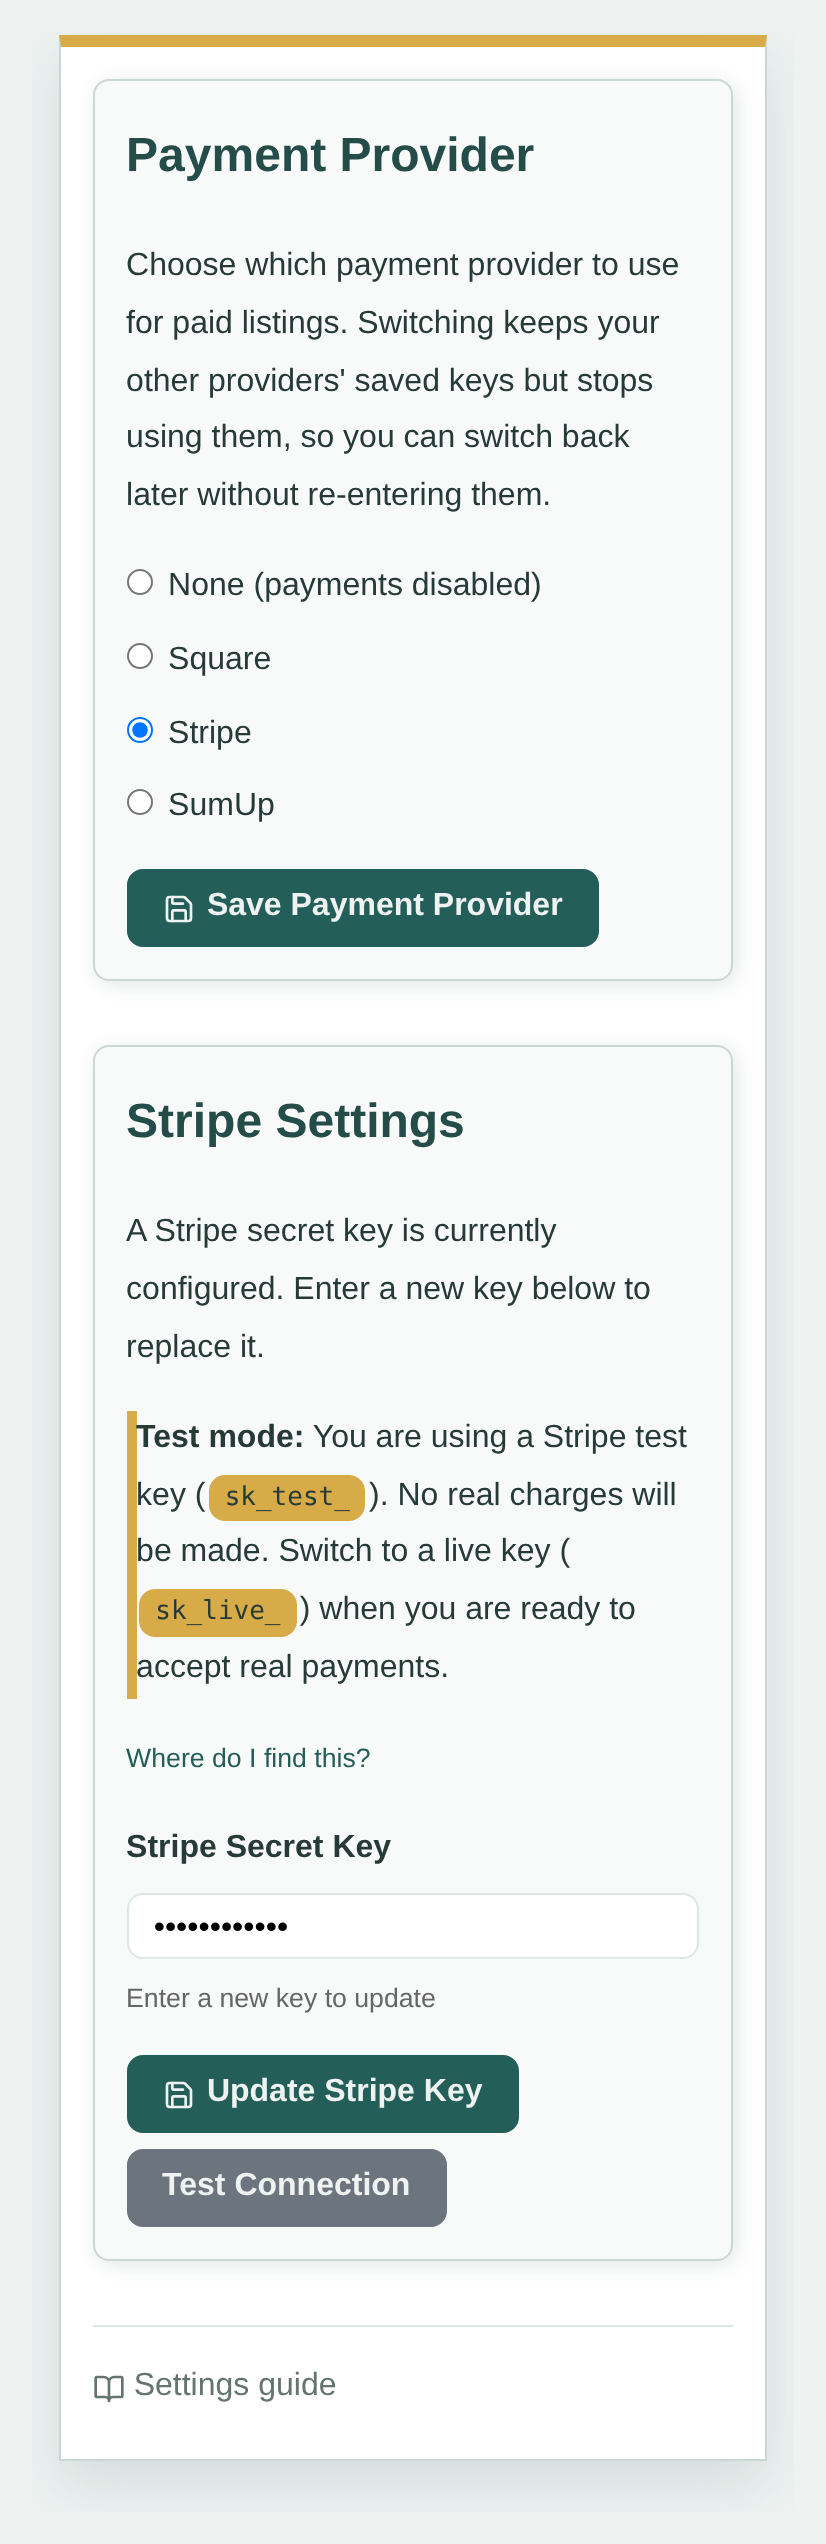
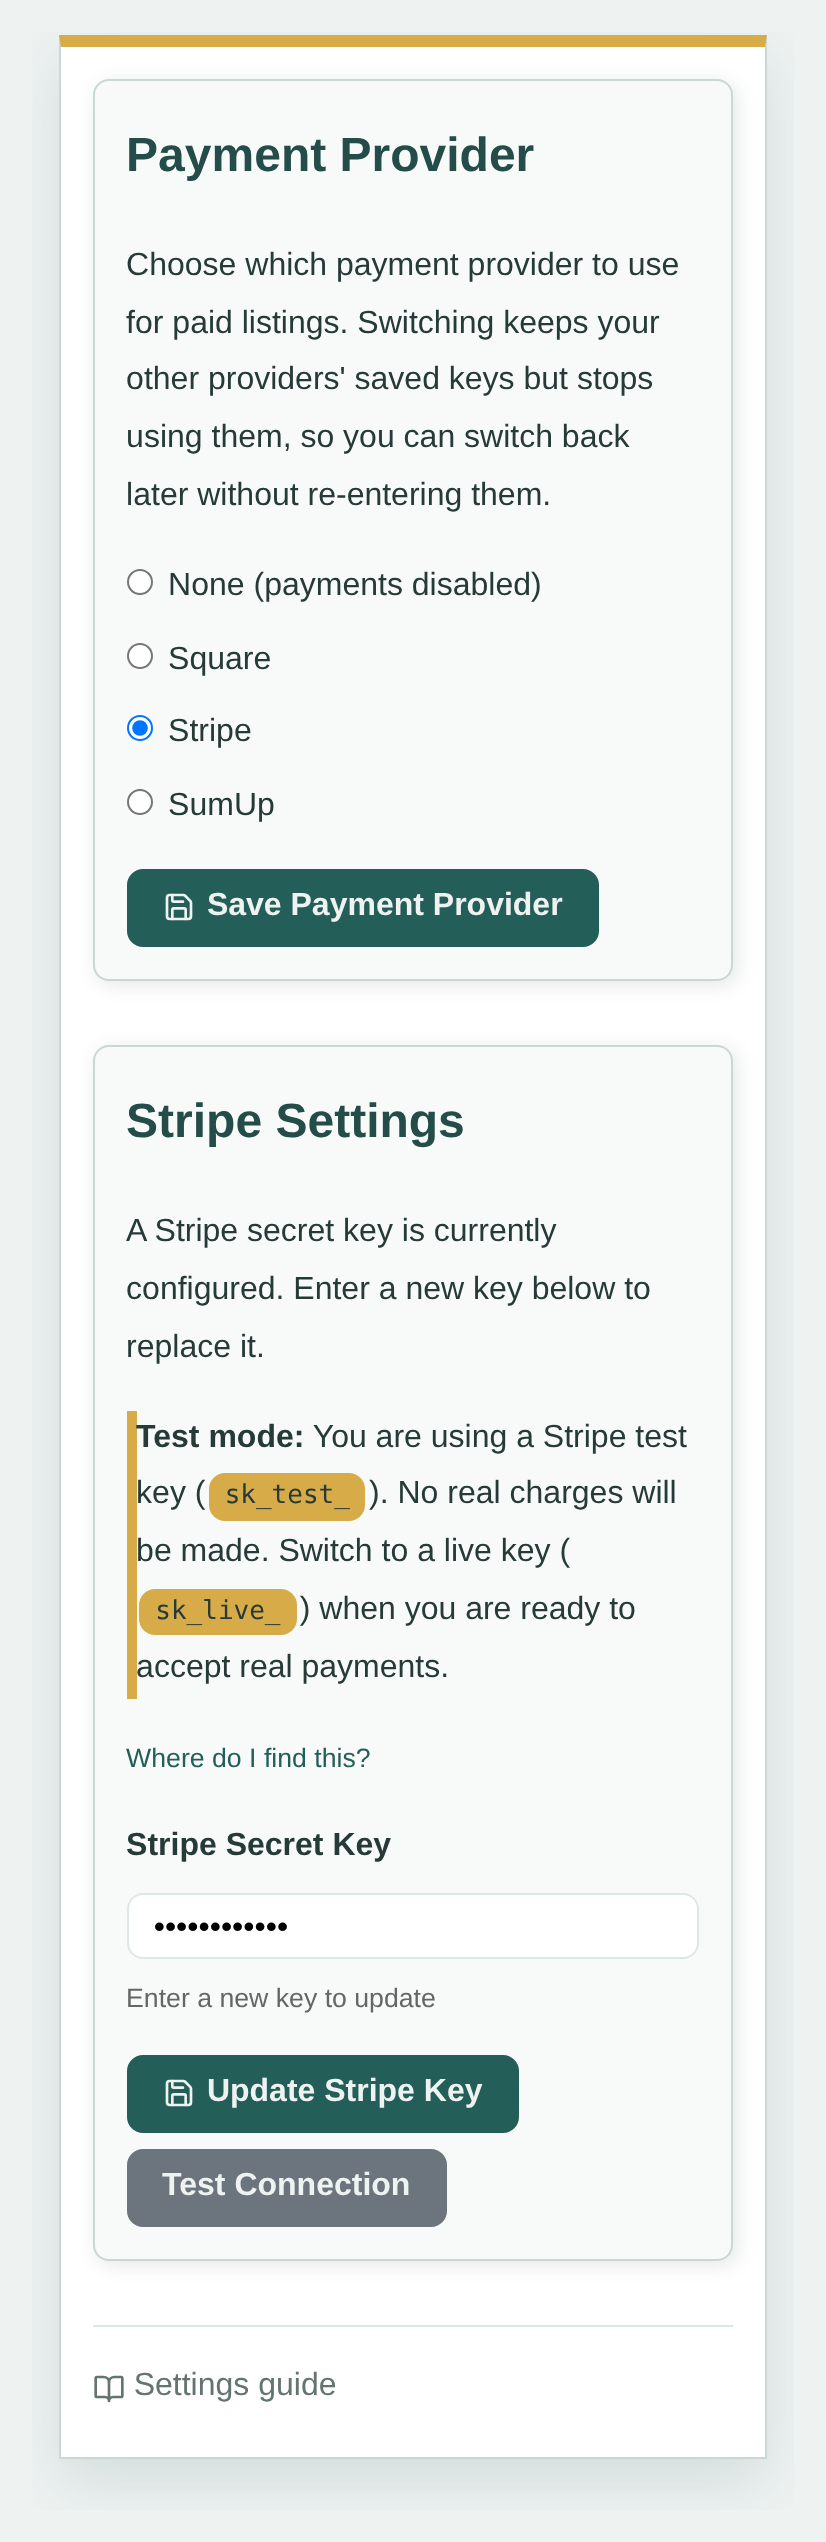
Show tested payment provider evidence

diff --git a/test/evidence-inventory.test.js b/test/evidence-inventory.test.js
@@ -5,7 +5,6 @@ import { SOCIAL_IMAGE_FACTS } from "../facts/social-images.js";
 import { SOCIAL_SCREENSHOT_COPY } from "../scripts/social-screenshot-copy.js";
 
 const ROOT = resolve(import.meta.dir, "..");
-const CAPTURE_ID = "servicing-studio-floor-hold";
 const readJson = (relativePath) =>
   JSON.parse(readFileSync(join(ROOT, relativePath), "utf8"));
 const inventory = readJson("_data/screenshot_inventory.json");
@@ -64,12 +63,18 @@ describe("screenshot inventory", () => {
 });
 
 describe("ticket evidence component", () => {
+  const evidencePages = [
+    {
+      captureId: "payment-provider-choice",
+      path: "pages/features/stripe-and-square.md",
+    },
+    {
+      captureId: "servicing-studio-floor-hold",
+      path: "pages/features/servicing-events.md",
+    },
+  ];
   const component = readFileSync(
     join(ROOT, "_includes/ticket-evidence.html"),
-    "utf8",
-  );
-  const page = readFileSync(
-    join(ROOT, "pages/features/servicing-events.md"),
     "utf8",
   );
 
@@ -91,12 +96,16 @@ describe("ticket evidence component", () => {
     expect(component).not.toContain("/admin/");
   });
 
-  test("replaces the ordinary servicing split image", () => {
-    expect(page).toContain("ticket_evidence_capture: servicing-studio-floor-hold");
-    expect(page).toContain("file: ticket-evidence.html");
-    expect(page).not.toContain("type: split-image");
-    expect(mapping.captures[CAPTURE_ID].legacyDestinationPath).toBe(
-      "images/screenshots/servicing-studio-floor-hold.png",
-    );
+  test("replaces each ordinary screenshot with its tested evidence", () => {
+    for (const { captureId, path } of evidencePages) {
+      const page = readFileSync(join(ROOT, path), "utf8");
+      expect(page).toContain(`ticket_evidence_capture: ${captureId}`);
+      expect(page).toContain("file: ticket-evidence.html");
+      expect(page).not.toContain("type: split-image");
+      expect(mapping.captures[captureId].page).toBe(path);
+      expect(mapping.captures[captureId].legacyDestinationPath).toBe(
+        `images/screenshots/${captureId}.png`,
+      );
+    }
   });
 });

diff --git a/scripts/evidence/social.js b/scripts/evidence/social.js
@@ -2,6 +2,14 @@ import { createSocialScreenshot } from "../create-social-screenshot.js";
 import { renderSocialScreenshotText } from "../render-social-screenshot-text.js";
 
 export const EVIDENCE_SOCIAL_CSS = {
+  "payment-provider-choice": `
+:root {
+  --color-accent: #d7ab48;
+  --color-link: #245e59;
+  --color-secondary: #244c48;
+  --color-text: #263a38;
+}
+`,
   "servicing-events": `
 :root {
   --color-accent: #c28b52;

diff --git a/pages/features/stripe-and-square.md b/pages/features/stripe-and-square.md
@@ -3,6 +3,7 @@ title: Stripe, Square & SumUp - Chobble Tickets
 meta_title: Stripe, Square & SumUp Payments - Chobble Tickets
 meta_description: Accept payments via Stripe, Square, or SumUp with fixed pricing or pay-what-you-want, and automatic refunds.
 permalink: /features/stripe-and-square/
+ticket_evidence_capture: payment-provider-choice
 eleventyNavigation:
   key: Stripe, Square & SumUp
   parent: Selling Tickets
@@ -14,25 +15,20 @@ blocks:
       # Stripe, Square & SumUp payments
 
       Accept card payments through Stripe, Square, or SumUp with fixed pricing or pay-what-you-want, and process refunds directly from the admin panel.
-  - type: split-image
-    content: |
-      ## Choose one provider
-
-      Select Stripe, Square or SumUp for paid bookings. Credentials for the
-      other providers remain saved when you switch, and the settings identify
-      whether a configured key accepts test or live payments.
-    figure_src: /images/screenshots/payment-provider-choice.png
-    figure_alt: Payment Provider settings with Stripe selected among Square, Stripe and SumUp and a configured Stripe test key
-    figure_caption: Choose one active provider and keep saved credentials available when switching.
+  - type: include
+    file: ticket-evidence.html
   - type: markdown
     content: |
       ## Three payment providers, your choice
 
       Chobble Tickets supports Stripe, Square and SumUp as payment providers,
       with one active provider per site. Connect your existing account by
-      adding its credentials in the settings. Paid bookings continue to the
-      provider's hosted checkout, and Chobble Tickets records payment
-      confirmation and refund results.
+      adding its credentials in the settings. Credentials for the other
+      providers remain saved when you switch. The settings also identify
+      whether a configured key accepts test or live payments.
+
+      Paid bookings continue to the provider's hosted checkout. Chobble
+      Tickets records payment confirmation and refund results.
 
       ## Flexible pricing
 

diff --git a/IMAGE-SCENARIOS.md b/IMAGE-SCENARIOS.md
@@ -227,10 +227,14 @@ These pages are rendered but excluded from the sitemap and main editorial total.
 ### Completed scenario files
 
 - [x] `scripts/screenshots/oakfield-public-website.js`
-- [x] `scripts/screenshots/payment-provider-choice.js`
 - [x] `scripts/screenshots/summer-appeal-purchase.js`
 - [x] `scripts/screenshots/summer-fair-volunteer-form.js`
 - [x] `scripts/screenshots/duplicate-event.js`
+
+### Completed Cucumber evidence captures
+
+- [x] `payment-provider-choice`
+- [x] `servicing-studio-floor-hold`
 
 ### Highest-value diagrams and comparison templates
 
